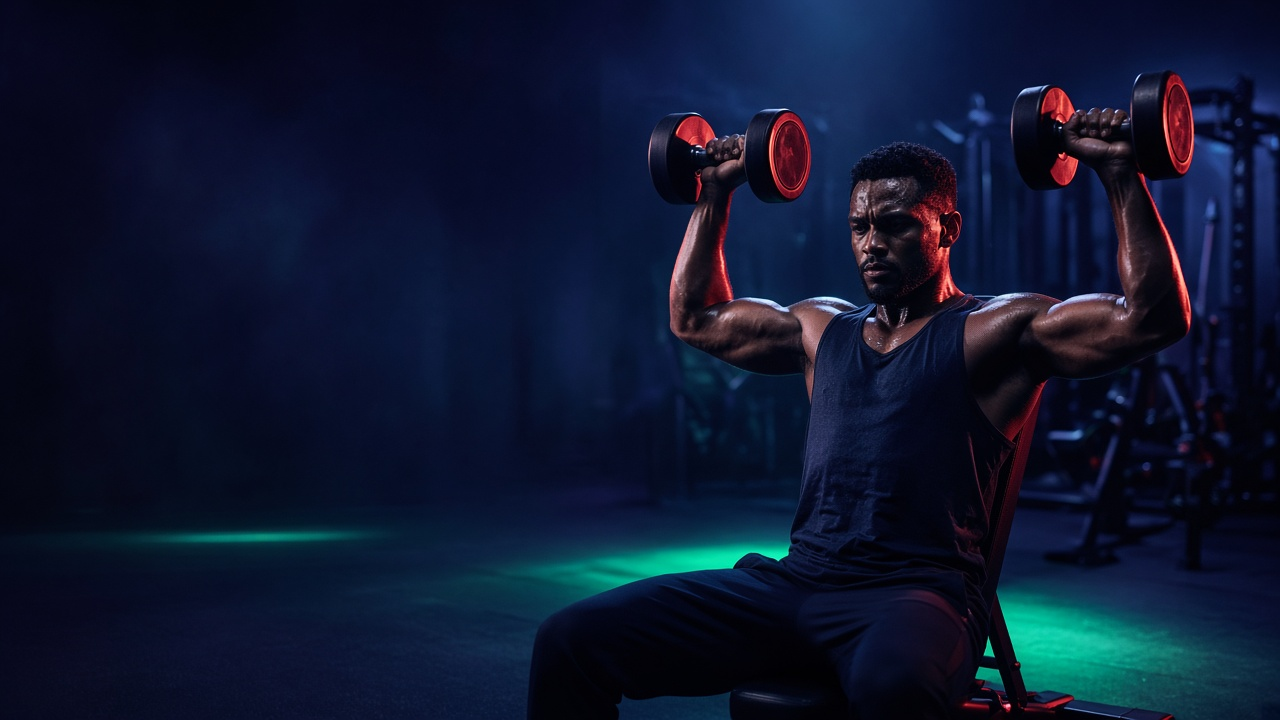
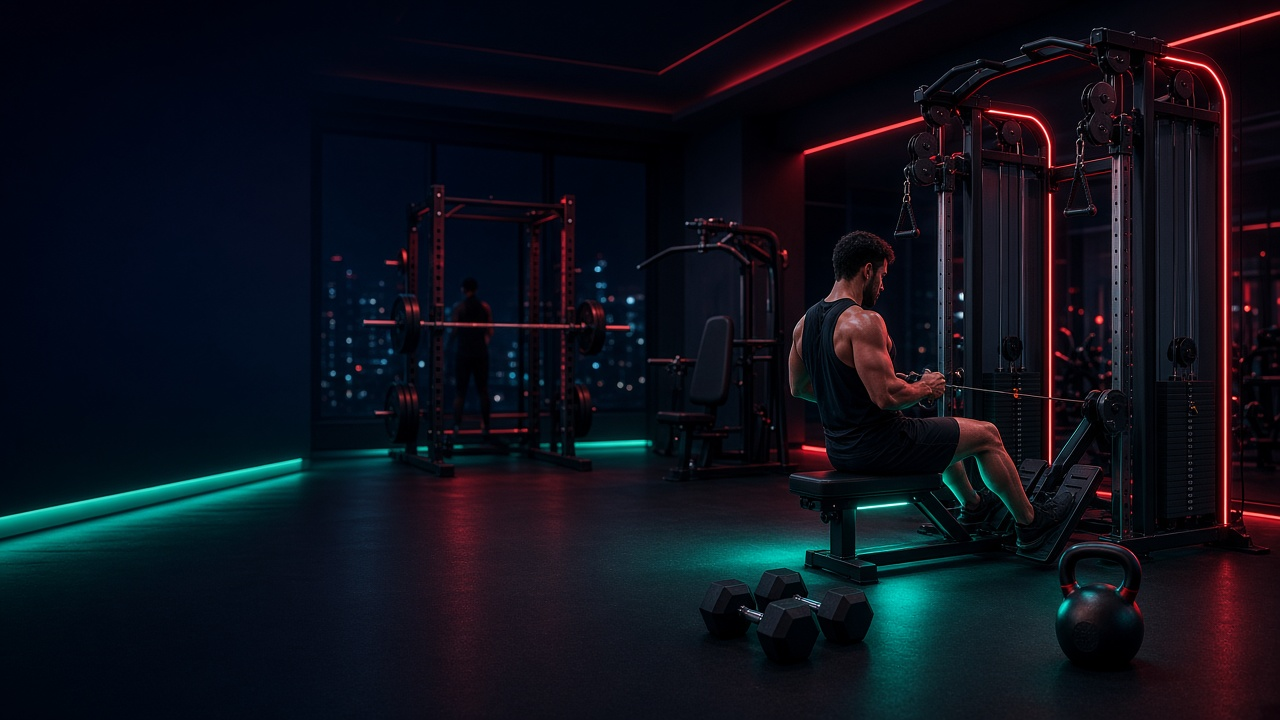
Broaden the site beyond dumbbells and add an iOS coming-soon path.

diff --git a/index.html b/index.html
@@ -3,17 +3,17 @@
 <head>
   <meta charset="utf-8" />
   <meta name="viewport" content="width=device-width, initial-scale=1" />
-  <title>Iron Habit — Train smart with dumbbells</title>
-  <meta name="description" content="Iron Habit is an Android fitness coach for dumbbell training. Get an AI workout and meal plan, snap meals for calories, watch 3D exercise videos, and log every set." />
+  <title>Iron Habit — Train on the gear you have</title>
+  <meta name="description" content="Iron Habit is a fitness coach for the gym you actually use — barbell, dumbbell, cable, machine, kettlebell, or bodyweight. AI workout and meal plans, photo calorie scans, and 3D exercise videos." />
   <meta name="theme-color" content="#06081A" />
   <link rel="icon" href="./favicon.svg" type="image/svg+xml" />
-  <meta property="og:title" content="Iron Habit — Train smart with dumbbells" />
+  <meta property="og:title" content="Iron Habit — Train on the gear you have" />
   <meta property="og:description" content="AI workout and meal plans, photo calorie scans, 200+ exercises with 3D videos, and a log that keeps every set." />
   <meta property="og:image" content="./images/hero.jpg" />
   <meta property="og:type" content="website" />
   <link rel="preconnect" href="https://fonts.googleapis.com" />
   <link rel="preconnect" href="https://fonts.gstatic.com" crossorigin />
-  <link href="https://fonts.googleapis.com/css2?family=Outfit:wght@400;500;600;700&family=Syne:wght@600;700;800&display=swap" rel="stylesheet" />
+  <link href="https://fonts.googleapis.com/css2?family=Fraunces:ital,opsz,wght@0,9..144,500;0,9..144,700;1,9..144,560&family=Manrope:wght@400;500;600;700&display=swap" rel="stylesheet" />
   <style>
     :root {
       --coral: #FF4D6D;
@@ -33,7 +33,7 @@
     html { scroll-behavior: smooth; }
     body {
       margin: 0;
-      font-family: Outfit, system-ui, sans-serif;
+      font-family: Manrope, system-ui, sans-serif;
       color: var(--ink);
       background: var(--bg);
       line-height: 1.55;
@@ -78,8 +78,9 @@
       align-items: center;
       gap: 10px;
       text-decoration: none;
-      font-family: Syne, sans-serif;
-      font-weight: 800;
+      font-family: Fraunces, Georgia, serif;
+      font-weight: 700;
+      font-variation-settings: "opsz" 72;
       letter-spacing: -.03em;
       font-size: 1.15rem;
     }
@@ -95,7 +96,7 @@
       border: 0;
       border-radius: 999px;
       padding: 13px 22px;
-      font: 600 0.95rem Outfit, sans-serif;
+      font: 600 0.95rem Manrope, sans-serif;
       text-decoration: none;
       cursor: pointer;
     }
@@ -148,14 +149,14 @@
       text-transform: uppercase;
       font-size: .78rem;
     }
-    h1, h2, h3 { font-family: Syne, sans-serif; letter-spacing: -.04em; line-height: 1.05; margin: 0 0 .4em; }
-    h1 { font-size: clamp(2.7rem, 7vw, 5.4rem); font-weight: 800; }
-    h2 { font-size: clamp(2rem, 4.4vw, 3.4rem); }
+    h1, h2, h3 { font-family: Fraunces, Georgia, serif; letter-spacing: -.03em; line-height: 1.08; margin: 0 0 .4em; font-variation-settings: "opsz" 80; }
+    h1 { font-size: clamp(2.6rem, 6.4vw, 5rem); font-weight: 560; font-style: italic; }
+    h2 { font-size: clamp(2rem, 4.2vw, 3.2rem); font-weight: 560; font-style: italic; }
     h3 { font-size: 1.35rem; }
     .lead { font-size: 1.2rem; color: var(--muted); max-width: 36rem; }
     .hero-actions { display: flex; flex-wrap: wrap; gap: 12px; margin: 28px 0 36px; }
     .stats { display: flex; gap: 28px; flex-wrap: wrap; }
-    .stat b { display: block; font-family: Syne, sans-serif; font-size: 1.7rem; }
+    .stat b { display: block; font-family: Fraunces, Georgia, serif; font-size: 1.7rem; font-style: italic; }
     .stat span { color: var(--muted); font-size: .9rem; }
 
     .ticker {
@@ -170,8 +171,8 @@
       width: max-content;
       animation: slide 28s linear infinite;
       color: var(--muted);
-      font-family: Syne, sans-serif;
-      letter-spacing: .08em;
+      font-family: Manrope, sans-serif;
+      letter-spacing: .14em;
       text-transform: uppercase;
       font-size: .86rem;
     }
@@ -242,8 +243,8 @@
       border-color: rgba(255,77,109,.55);
       box-shadow: 0 20px 60px rgba(255,77,109,.14);
     }
-    .price { font-family: Syne, sans-serif; font-size: 2.2rem; margin: 8px 0 4px; }
-    .price small { font-size: 1rem; color: var(--muted); font-family: Outfit, sans-serif; }
+    .price { font-family: Fraunces, Georgia, serif; font-size: 2.2rem; margin: 8px 0 4px; font-style: italic; }
+    .price small { font-size: 1rem; color: var(--muted); font-family: Manrope, sans-serif; font-style: normal; }
     .plan ul { padding: 0; margin: 18px 0 0; list-style: none; flex: 1; }
     .plan li { padding: 8px 0 8px 22px; position: relative; color: var(--muted); }
     .plan li::before {
@@ -275,6 +276,29 @@
       align-items: center;
     }
     footer a { color: var(--ink); }
+
+    .modal {
+      position: fixed;
+      inset: 0;
+      z-index: 40;
+      display: none;
+      place-items: center;
+      padding: 24px;
+      background: rgba(6,8,26,.72);
+      backdrop-filter: blur(10px);
+    }
+    .modal.open { display: grid !important; }
+    .modal-card {
+      width: min(440px, 100%);
+      background: #161A3A;
+      border: 1px solid var(--line);
+      border-radius: 24px;
+      padding: 32px;
+      text-align: center;
+      box-shadow: 0 30px 80px rgba(0,0,0,.4);
+    }
+    .modal-card h2 { margin-bottom: 10px; }
+    .modal-card p { color: var(--muted); margin: 0 0 22px; }
 
     .reveal { opacity: 0; transform: translateY(24px); animation: rise .8s ease forwards; }
     .d1 { animation-delay: .08s; } .d2 { animation-delay: .16s; } .d3 { animation-delay: .24s; }
@@ -309,38 +333,34 @@
 
   <header class="hero" id="top">
     <div class="hero-media">
-      <img src="./images/hero.jpg" alt="Athlete pressing dumbbells in a dark gym lit with coral light" />
+      <img src="./images/hero.jpg" alt="A full gym at night — squat rack, cables, machines, and free weights" />
     </div>
     <div class="hero-copy">
-      <p class="eyebrow reveal">Android fitness coach</p>
-      <h1 class="reveal d1">Train smart with dumbbells. Track every set.</h1>
-      <p class="lead reveal d2">A weekly plan built around your body, kitchen, and equipment — plus photo calorie scans and 3D exercise videos that play offline once they land.</p>
+      <p class="eyebrow reveal">Fitness coach · Android now · iPhone next</p>
+      <h1 class="reveal d1">Train on the gear you have. Track every set.</h1>
+      <p class="lead reveal d2">A weekly plan for the rack, the cable stack, the machines, or the living-room floor — plus photo calorie scans and 3D videos that play offline once they land.</p>
       <div class="hero-actions reveal d2">
         <a class="btn btn-coral" href="https://play.google.com/store/apps/details?id=com.lajenaxai.ironhabit">Get it on Google Play</a>
-        <a class="btn btn-ghost" href="#features">See what it does</a>
+        <a class="btn btn-ghost" href="#ios" id="ios-open">Download on the App Store</a>
       </div>
       <div class="stats reveal d3">
         <div class="stat"><b>200+</b><span>exercises</span></div>
+        <div class="stat"><b>8</b><span>equipment types</span></div>
         <div class="stat"><b>12</b><span>muscle groups</span></div>
-        <div class="stat"><b>7</b><span>days of meals</span></div>
       </div>
     </div>
   </header>
 
   <div class="ticker" aria-hidden="true">
     <div class="ticker-track">
-      <span>Chest</span><span><em>/</em></span><span>Back</span><span><em>/</em></span>
-      <span>Shoulders</span><span><em>/</em></span><span>Biceps</span><span><em>/</em></span>
-      <span>Triceps</span><span><em>/</em></span><span>Core</span><span><em>/</em></span>
-      <span>Quads</span><span><em>/</em></span><span>Hamstrings</span><span><em>/</em></span>
-      <span>Glutes</span><span><em>/</em></span><span>Calves</span><span><em>/</em></span>
-      <span>Full body</span><span><em>/</em></span>
-      <span>Chest</span><span><em>/</em></span><span>Back</span><span><em>/</em></span>
-      <span>Shoulders</span><span><em>/</em></span><span>Biceps</span><span><em>/</em></span>
-      <span>Triceps</span><span><em>/</em></span><span>Core</span><span><em>/</em></span>
-      <span>Quads</span><span><em>/</em></span><span>Hamstrings</span><span><em>/</em></span>
-      <span>Glutes</span><span><em>/</em></span><span>Calves</span><span><em>/</em></span>
-      <span>Full body</span><span><em>/</em></span>
+      <span>Barbell</span><span><em>/</em></span><span>Dumbbell</span><span><em>/</em></span>
+      <span>Kettlebell</span><span><em>/</em></span><span>Cable</span><span><em>/</em></span>
+      <span>Machine</span><span><em>/</em></span><span>Smith</span><span><em>/</em></span>
+      <span>Bodyweight</span><span><em>/</em></span><span>Resistance band</span><span><em>/</em></span>
+      <span>Barbell</span><span><em>/</em></span><span>Dumbbell</span><span><em>/</em></span>
+      <span>Kettlebell</span><span><em>/</em></span><span>Cable</span><span><em>/</em></span>
+      <span>Machine</span><span><em>/</em></span><span>Smith</span><span><em>/</em></span>
+      <span>Bodyweight</span><span><em>/</em></span><span>Resistance band</span><span><em>/</em></span>
     </div>
   </div>
 
@@ -367,15 +387,15 @@
       <div class="copy">
         <p class="kicker">AI workout week</p>
         <h2>A training week that fits your gear and your joints.</h2>
-        <p>Tell Iron Habit your goal, experience, days, injuries, and equipment. Paid members get a Gemini-written week from the in-app catalog — dumbbells, cables, machines, or just a floor and gravity. Free members still get a solid catalog-built week.</p>
+        <p>Tell Iron Habit your goal, experience, days, injuries, and what you can actually touch. Paid members get a Gemini-written week from the full catalog — barbell, dumbbell, kettlebell, cable, machine, Smith, bands, or bodyweight. Free members still get a solid catalog-built week.</p>
         <div class="chips">
-          <span class="chip">Goal + target weight</span>
+          <span class="chip">Uses your equipment</span>
           <span class="chip">Injuries respected</span>
           <span class="chip">Rebuilds on Advanced</span>
         </div>
       </div>
       <figure class="photo">
-        <img src="./images/workout.jpg" alt="Glass weekly training board beside dumbbells and a kettlebell" />
+        <img src="./images/workout.jpg" alt="A weekly training board with mixed gym equipment" />
       </figure>
     </div>
   </section>
@@ -421,15 +441,15 @@
       <div class="copy">
         <p class="kicker">Exercise library</p>
         <h2>200+ moves. 3D videos that download only what you train.</h2>
-        <p>Browse by muscle, flip front and side, and follow step-by-step cues. The app ships light. The first time you open Chest, that video pack downloads once — then every chest demo plays offline forever.</p>
+        <p>Browse by muscle, flip front and side, and follow step-by-step cues across eight equipment types. The app ships light. The first time you open a muscle group, that video pack downloads once — then every demo in it plays offline forever.</p>
         <div class="chips">
           <span class="chip">12 on-demand packs</span>
           <span class="chip">Front / side view</span>
-          <span class="chip">Dumbbell to cable</span>
+          <span class="chip">Eight equipment types</span>
         </div>
       </div>
       <figure class="photo">
-        <img src="./images/videos.jpg" alt="Motion frames of a dumbbell chest press in coral and mint light" />
+        <img src="./images/videos.jpg" alt="Motion frames of a strength exercise in coral and mint light" />
       </figure>
     </div>
   </section>
@@ -522,13 +542,14 @@
 
   <section class="cta" id="get">
     <div class="wrap">
-      <p class="eyebrow">Google Play</p>
+      <p class="eyebrow">Get Iron Habit</p>
       <h2>Build the habit. Keep the iron.</h2>
-      <p class="lead" style="margin:0 auto">Available on Android phones and tablets. Sign in, skip as a guest, or start with the free week tonight.</p>
+      <p class="lead" style="margin:0 auto">On Android phones and tablets today. The iPhone app is on the way. Sign in, skip as a guest, or start with the free week tonight.</p>
       <div class="hero-actions" style="justify-content:center; margin-top:28px">
         <a class="btn btn-coral" href="https://play.google.com/store/apps/details?id=com.lajenaxai.ironhabit">Get it on Google Play</a>
-        <a class="btn btn-ghost" href="https://lajeshds2023.github.io/ironhabit-legal/">Privacy policy</a>
+        <a class="btn btn-ghost" href="#ios" id="ios-open-2">Download on the App Store</a>
       </div>
+      <p style="margin-top:18px"><a href="https://lajeshds2023.github.io/ironhabit-legal/" style="color:var(--muted)">Privacy policy</a></p>
     </div>
   </section>
 
@@ -541,5 +562,38 @@
       <div>© 2026 Iron Habit · Not medical advice · <a href="mailto:lajeshds2023@gmail.com">lajeshds2023@gmail.com</a></div>
     </div>
   </footer>
+
+  <div class="modal" id="ios-modal" role="dialog" aria-modal="true" aria-labelledby="ios-title" hidden>
+    <div class="modal-card">
+      <p class="eyebrow">iPhone &amp; iPad</p>
+      <h2 id="ios-title">Coming soon</h2>
+      <p>Iron Habit is on Google Play today. The App Store release is in the works — same coach, same plans, same log.</p>
+      <button class="btn btn-coral" type="button" id="ios-close">Got it</button>
+    </div>
+  </div>
+  <script>
+    (function () {
+      var modal = document.getElementById("ios-modal");
+      function openIos(event) {
+        event.preventDefault();
+        modal.hidden = false;
+        modal.classList.add("open");
+      }
+      function closeIos() {
+        modal.classList.remove("open");
+        modal.hidden = true;
+      }
+      document.querySelectorAll("#ios-open, #ios-open-2").forEach(function (el) {
+        el.addEventListener("click", openIos);
+      });
+      document.getElementById("ios-close").addEventListener("click", closeIos);
+      modal.addEventListener("click", function (event) {
+        if (event.target === modal) closeIos();
+      });
+      document.addEventListener("keydown", function (event) {
+        if (event.key === "Escape") closeIos();
+      });
+    })();
+  </script>
 </body>
 </html>
